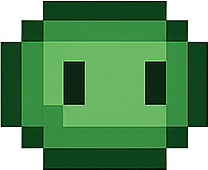
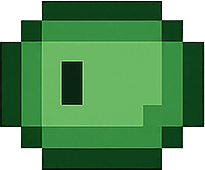
sistemato gli spritez, e la velocità

diff --git a/primo video game/script3.js b/primo video game/script3.js
@@ -3,6 +3,8 @@ const ctx = canvas.getContext("2d");
 
 const c = 20;
 const g = canvas.width / c;
+let v = 500;
+let intervalId;
 
 let snake = [
     { x: 10, y: 10 }
@@ -20,7 +22,10 @@ const sprite = {
     testaLeft: new Image(),
     testaRight: new Image(),
     corpo: new Image(),
-    coda: new Image(),
+    codaUp: new Image(),
+    codaDown: new Image(),
+    codaLeft: new Image(),
+    codaRight: new Image(),
     mela: new Image()
 };
 
@@ -29,7 +34,10 @@ sprite.testaDown.src = "img/testa_down.png";
 sprite.testaLeft.src = "img/testa_left.png";
 sprite.testaRight.src = "img/testa_right.png";
 sprite.corpo.src = "img/corpo.png";
-sprite.coda.src = "img/coda.png";
+sprite.codaUp.src = "img/coda_up.png";
+sprite.codaDown.src = "img/coda_down.png";
+sprite.codaLeft.src = "img/coda_left.png";
+sprite.codaRight.src = "img/coda_right.png";
 sprite.mela.src = "img/mela.png";
 
 function randomCibo() {
@@ -56,6 +64,11 @@ function draw() {
 
     if (head.x === food.x && head.y === food.y) {
         food = randomCibo();
+        
+        if (snake.length % 5 === 0 && snake.length !== 0) {
+        v = Math.max(100, v - 100); // limite minimo di velocità
+        startGameLoop(); // riavvia con la nuova velocità
+    }
     } else {
         snake.pop();
     }
@@ -71,22 +84,32 @@ function draw() {
     for (let i = 0; i < snake.length; i++) {
         const part = snake[i];
 
+        let headImg = sprite.testaRight;
+        let tailImg = sprite.codaUp;
+
         if (i === 0) {
             // Testa in base alla direzione
-            let headImg = sprite.testaRight;
+            
+
             if (dx === 1) headImg = sprite.testaRight;
             else if (dx === -1) headImg = sprite.testaLeft;
             else if (dy === -1) headImg = sprite.testaUp;
             else if (dy === 1) headImg = sprite.testaDown;
             ctx.drawImage(headImg, part.x * c, part.y * c, c, c);
         } else if (i === snake.length - 1) {
-            ctx.drawImage(sprite.coda, part.x * c, part.y * c, c, c);
+            if (dx === 1) tailImg = sprite.codaRight;
+            else if (dx === -1) tailImg = sprite.codaLeft;
+            else if (dy === -1) tailImg = sprite.codaUp;
+            else if (dy === 1) tailImg = sprite.codaDown;
+
+            ctx.drawImage(tailImg, part.x * c, part.y * c, c, c);
         } else {
             ctx.drawImage(sprite.corpo, part.x * c, part.y * c, c, c);
         }
     }
 
     punteggio();
+    
 }
 
 function collision(x, y) {
@@ -103,8 +126,11 @@ function changeDirection(newDx, newDy) {
 function punteggio() {
     let punti = document.getElementById("punteggio");
     punti.innerHTML = snake.length;
+
+    
 }
 
+//live
 // Bottoni direzionali
 document.getElementById("moveup").addEventListener("click", () => changeDirection(0, -1));
 document.getElementById("movedown").addEventListener("click", () => changeDirection(0, 1));
@@ -119,4 +145,15 @@ document.addEventListener("keydown", (e) => {
     if (e.key === "ArrowRight") changeDirection(1, 0);
 });
 
-setInterval(draw, 500);
+
+
+
+function startGameLoop() {
+
+    if (intervalId) clearInterval(intervalId);
+    intervalId = setInterval(draw, v);
+}
+
+
+startGameLoop();
+
